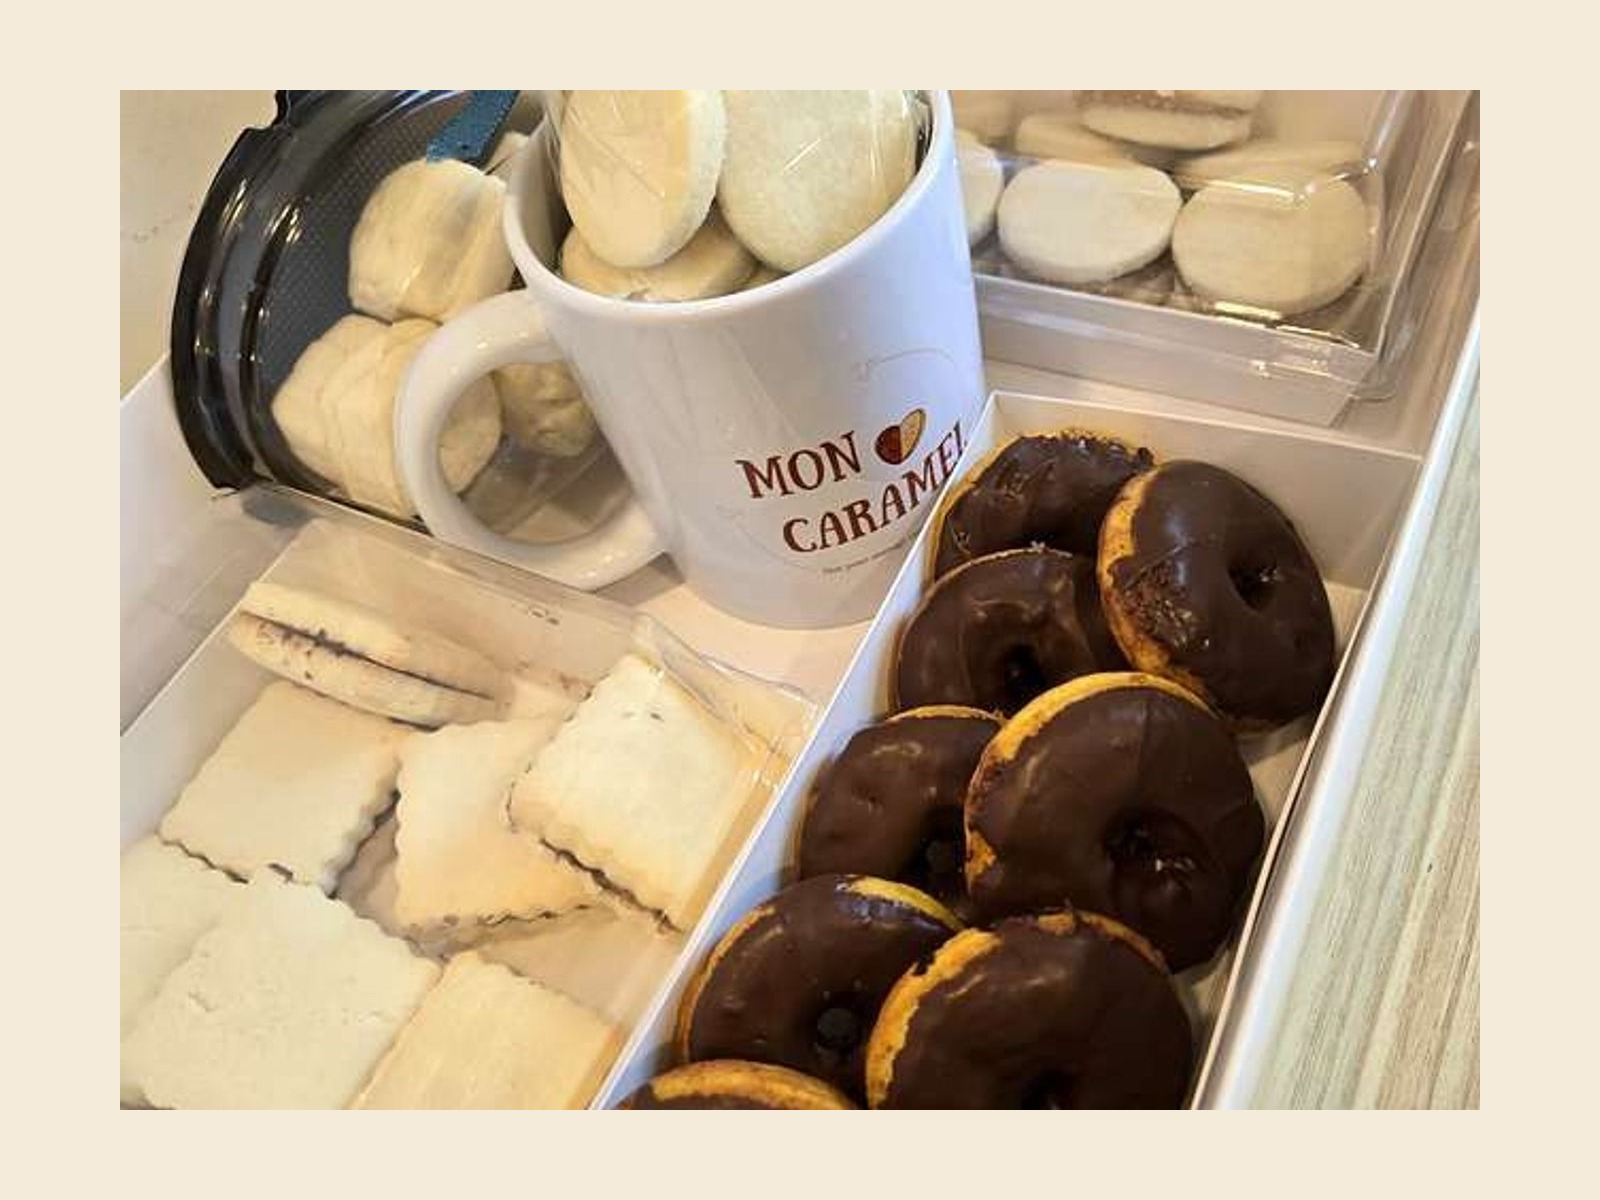
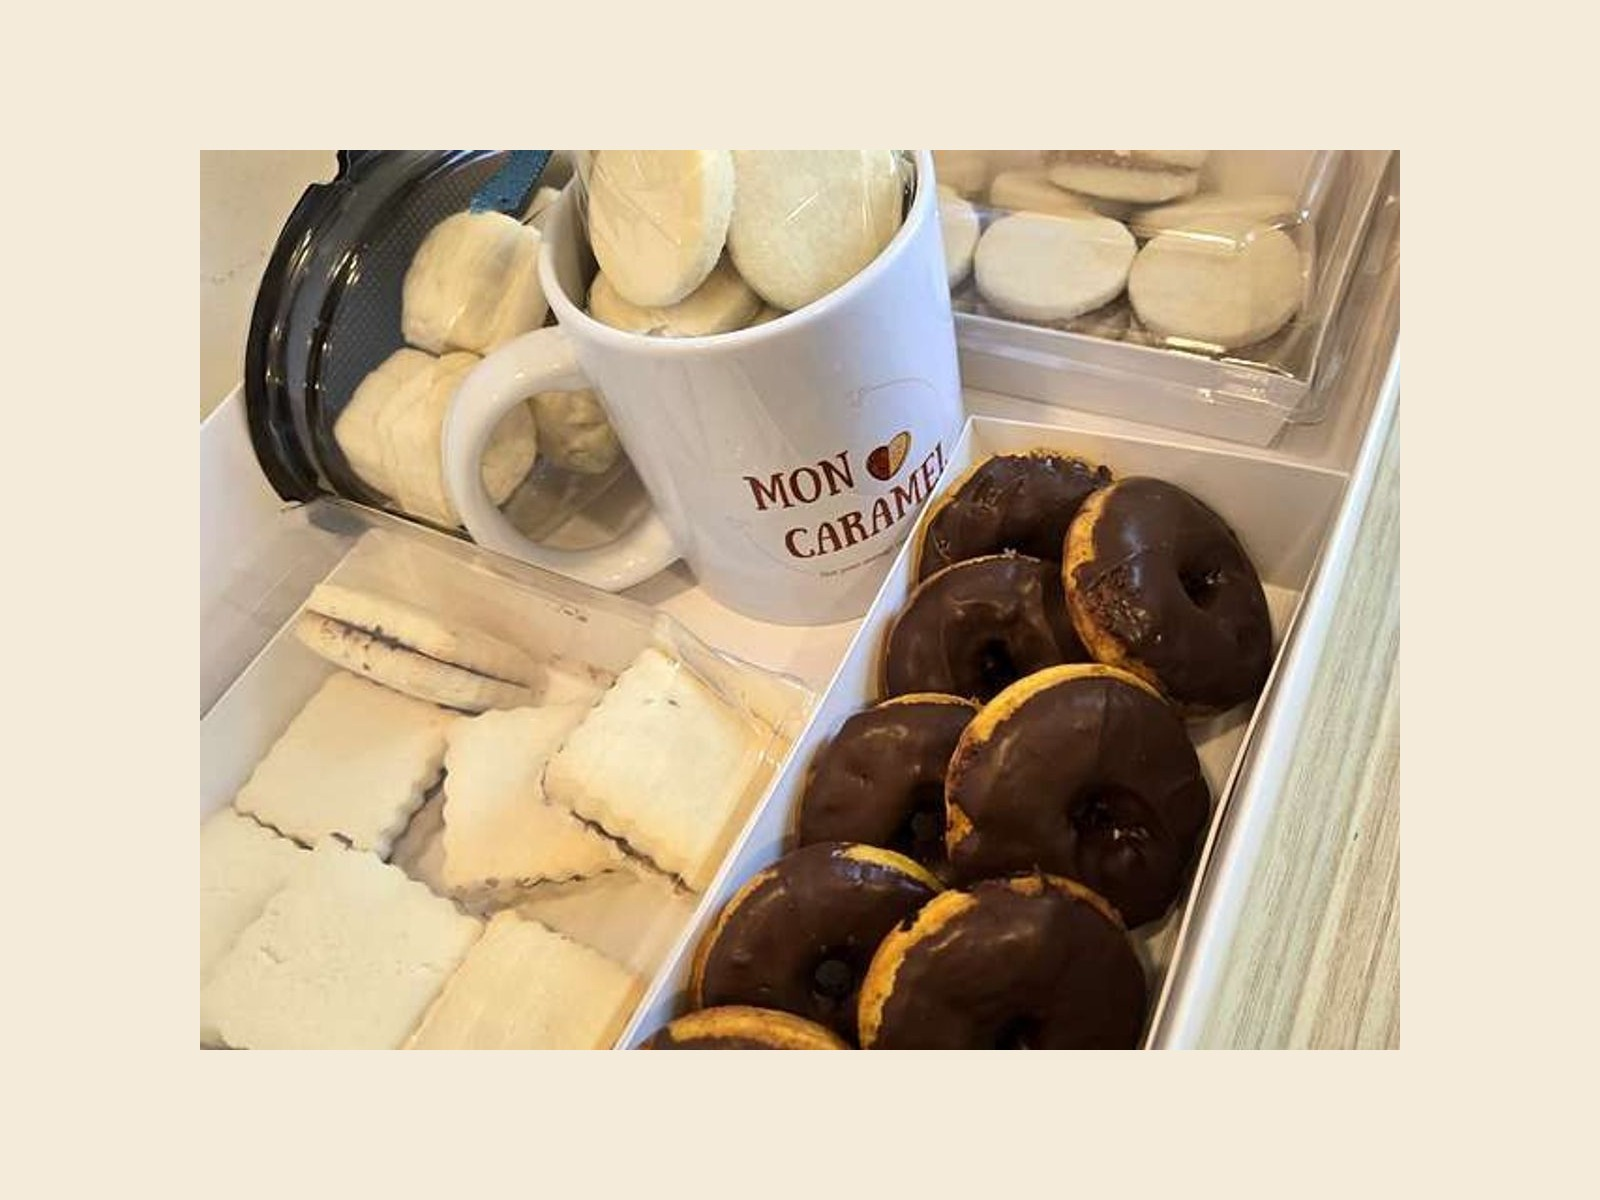
Bandejas: fine-tune framing on photos 4 and 6 only (#79)
* Caixas: remove scale-crop overrides on slides 5/6/8, show full photo

Root-cause investigation found no rotation/wrapper/library bug in the
carousel — object-fit: contain and overflow: hidden were always correct.
The actual cause was the transform: scale() crop added in two earlier
rounds to hide awkward edges in these three source photos; even at mild
values, any scale necessarily crops into the composition. Removing the
overrides restores plain object-contain/transform:none (same as every
other slide), which shows 100% of each native 4:3 photo edge to edge
since it already matches the frame aspect ratio.

Slide 6's "rotated" sticker text was also traced to pixel level: the
physical MON CARAMEL sticker was applied to the box at an angle in this
specific original photo, not a CSS or EXIF issue. Left unedited per
product decision — rotating the file would turn the whole box sideways.

Claude-Session: https://claude.ai/code/session_01FoPn8ZvrZvqgU1NZAx45PL

* Caixas: harden Photo's <picture> sizing, verify root cause of crop report

Deep re-investigation (file-level + live computed-style inspection) found
the previously merged fix is mathematically correct: presente-pao-mel,
presente-flex1 and presente-cha-de-bebe are 640x480 (4:3) for both .jpg
and .webp, matching each other pixel-for-pixel (only lossy WebP encoding
noise, no crop/rotation between formats), and matching the carousel's own
aspect-photo (4:3) frame exactly — so object-fit: contain + transform:
[…]

diff --git a/src/data/inspirationGalleries.js b/src/data/inspirationGalleries.js
@@ -90,7 +90,17 @@ export const TRAY_INSPIRATIONS = [
   },
   {
     id: "bandeja-dia-dos-pais",
-    src: "/images/products/bandeja-dia-dos-pais.jpg",
+    // Points at the prepared 4:3 canvas asset from
+    // scripts/prepare-inspiration-images.mjs instead of the raw product
+    // photo: the source is already exactly 4:3, so it filled the carousel
+    // frame edge-to-edge with zero cream margin — the balloons pressed
+    // against the top and the tray's products right at the bottom edge
+    // both read as cut off, even though the full photo was already
+    // visible. The derived asset draws it at 0.85 scale instead, same
+    // idea as bandeja-variedade below. Original photo
+    // (bandeja-dia-dos-pais.jpg) is untouched; this is a derived, centered
+    // version of the exact same photograph.
+    src: "/images/inspirations/trays/display/bandeja-dia-dos-pais-inspiration.jpg",
     alt: "Docinhos, cookies e balões nas cores do tema — surpresa completa pra comemorar.",
   },
   {
@@ -106,9 +116,10 @@ export const TRAY_INSPIRATIONS = [
     // scripts/prepare-inspiration-images.mjs instead of the raw product
     // photo: the source is already exactly 4:3, so it fills the carousel
     // frame edge-to-edge with zero cream margin at scaleFactor 1, which
-    // read as overly zoomed-in — the derived asset draws it at 0.85 scale
-    // instead, same idea as box-005's proof of concept. Original photo
-    // (presentinho-variedade.jpg, still used by the "Mix Variedade"
+    // read as overly zoomed-in — the derived asset draws it at 0.75 scale
+    // instead (a first pass at 0.85 still left too thin a margin to read
+    // as breathing room), same idea as box-005's proof of concept. Original
+    // photo (presentinho-variedade.jpg, still used by the "Mix Variedade"
     // product elsewhere) is untouched; this is a derived, centered version
     // of the exact same photograph.
     src: "/images/inspirations/trays/display/bandeja-variedade-inspiration.jpg",
